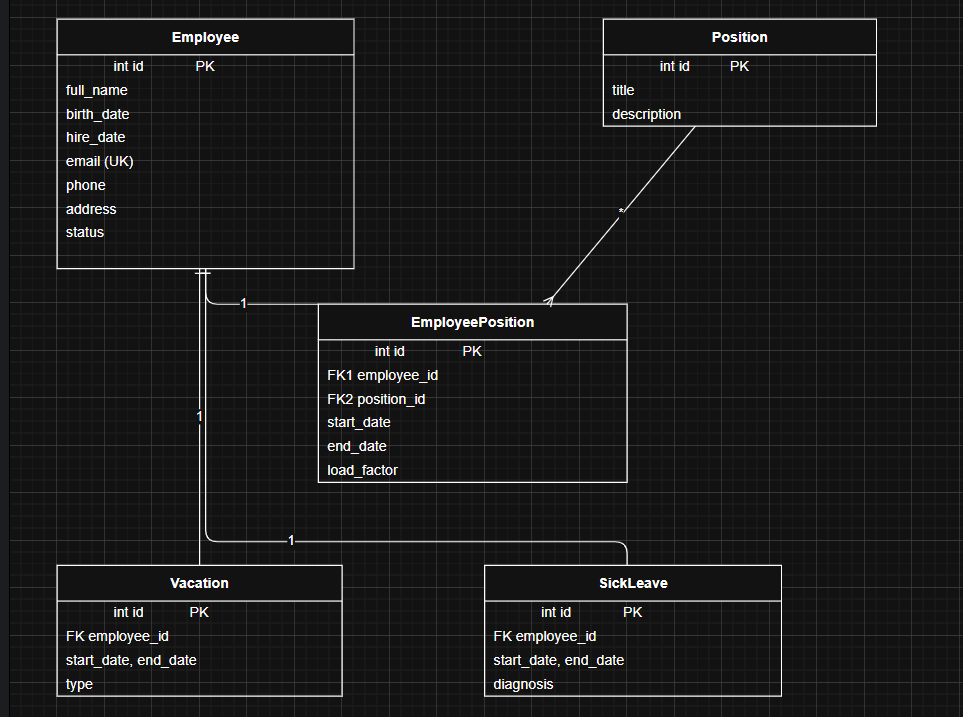
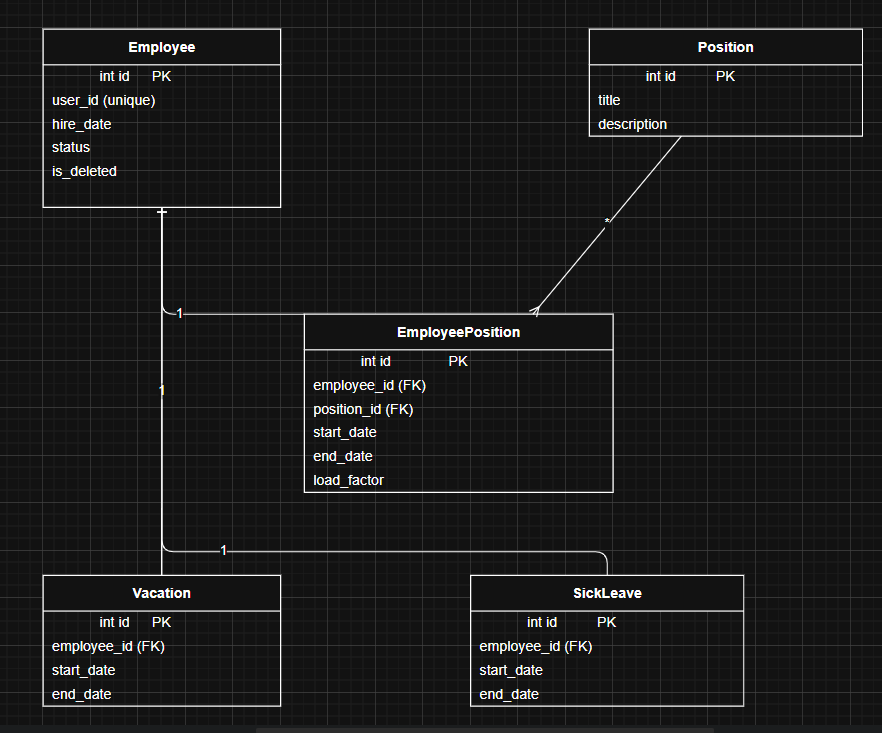
Внёс изменения во все файлы

diff --git a/S10/models.py b/S10/models.py
@@ -3,19 +3,16 @@ from peewee import *
 
 db = SqliteDatabase('employee_status.db')
 
-
 class BaseModel(Model):
     class Meta:
         database = db
 
 class Employee(BaseModel):
-    full_name = CharField(max_length=255, null=False)
-    birth_date = DateField(null=False)
+    """Минимальная информация о сотруднике – только ссылка на профиль и статус"""
+    user_id = IntegerField(unique=True, null=False)  # ID из Profile Service / Auth
     hire_date = DateField(null=False)
-    email = CharField(unique=True, null=True)
-    phone = CharField(max_length=20, null=True)
-    address = TextField(null=True)
-    status = CharField(max_length=20, default='active') 
+    status = CharField(max_length=20, default='active')  # active, on_vacation, sick_leave, fired
+    is_deleted = BooleanField(default=False)  # мягкое удаление
 
 class Position(BaseModel):
     title = CharField(max_length=100, null=False)
@@ -26,7 +23,7 @@ class EmployeePosition(BaseModel):
     position = ForeignKeyField(Position, backref='employees', on_delete='CASCADE', null=False)
     start_date = DateField(null=False)
     end_date = DateField(null=True)
-    load_factor = FloatField(null=False, constraints=[Check('load_factor > 0 AND load_factor <= 1')])
+    load_factor = FloatField(null=False)  # 1.0 = полная ставка
 
 class Vacation(BaseModel):
     employee = ForeignKeyField(Employee, backref='vacations', on_delete='CASCADE', null=False)
@@ -41,7 +38,6 @@ class SickLeave(BaseModel):
     diagnosis = TextField(null=True)
 
 def initialize_db():
-    """Создаёт таблицы, если они не существуют."""
     db.connect()
     db.create_tables([Employee, Position, EmployeePosition, Vacation, SickLeave], safe=True)
     db.close()

diff --git a/S10/doc.md b/S10/doc.md
@@ -1,11 +1,13 @@
-# Сервис статуса сотрудника (вариант 10)
+# Сервис статуса сотрудника (Employee Status Service) – Вариант 10
 
 ## Список функций
-- `create_employee` – создание сотрудника  
-- `update_employee` – изменение сотрудника по ID  
-- `delete_employee` – удаление (закрытие) сотрудника по ID  
-- `get_employee` – получение сотрудника по ID  
-- `list_employees` – получение списка сотрудников по заданным параметрам  
+- `create_employee` – создание записи о сотруднике (только статусная информация)
+- `update_employee` – изменение статусной информации сотрудника
+- `delete_employee` – мягкое удаление (is_deleted = True)
+- `get_employee` – получение сотрудника по ID
+- `list_employees` – получение списка сотрудников с фильтрацией
+
+> Примечание: ФИО, контакты и другие персональные данные хранятся в **Profile Service**. В данном сервисе используется `user_id` для связи с профилем.
 
 ---
 
@@ -15,60 +17,48 @@
 
 **Информация, требуемая для создания сотрудника**
 
-| Параметр      | Обязательность | Тип     | Ограничение                                  | Значение по умолчанию |
-|---------------|----------------|---------|----------------------------------------------|-----------------------|
-| `full_name`   | Да             | string  | длина ≤ 255                                  | –                     |
-| `birth_date`  | Да             | date    | не может быть в будущем                      | –                     |
-| `hire_date`   | Да             | date    | не может раньше 1900 года                    | –                     |
-| `email`       | Нет            | string  | уникальный, формат email                     | `NULL`                |
-| `phone`       | Нет            | string  | формат +7XXXXXXXXXX                          | `NULL`                |
-| `address`     | Нет            | string  | –                                            | `NULL`                |
-| `status`      | Нет            | string  | active / on_vacation / sick_leave / fired    | `'active'`            |
+| Параметр | Пояснение | Обязательность | Тип | Ограничение | Значение по умолчанию |
+|----------|-----------|----------------|-----|-------------|-----------------------|
+| `user_id` | ID сотрудника из Profile Service | Да | int | уникальный | – |
+| `hire_date` | Дата найма | Да | date | не раньше 1900-01-01 | – |
+| `status` | Текущий статус | Нет | string | active / on_vacation / sick_leave / fired | `'active'` |
 
-**Уникальные комбинации параметров:**  
-- `email` (глобальная уникальность)  
-- `(full_name, birth_date)` – уникальный идентификатор личности
+**Уникальные комбинации:** `user_id` (глобально уникален)
 
 **Информация, возвращаемая при успешном создании**
 
-| Параметр      | Тип     |
-|---------------|---------|
-| `id`          | int     |
-| `full_name`   | string  |
-| `hire_date`   | date    |
-| `status`      | string  |
+| Параметр | Тип |
+|----------|-----|
+| `id` | int |
+| `user_id` | int |
+| `hire_date` | date |
+| `status` | string |
 
 ---
 
 ### 2. Изменение сотрудника по ID
 
-**Информация, требуемая для изменения сотрудника** (все поля опциональны)
+**Информация, требуемая для изменения** (все поля опциональны)
 
-| Параметр      | Обязательность | Тип     | Ограничение                                  | Значение по умолчанию |
-|---------------|----------------|---------|----------------------------------------------|-----------------------|
-| `full_name`   | Нет            | string  | длина ≤ 255                                  | –                     |
-| `birth_date`  | Нет            | date    | не может быть в будущем                      | –                     |
-| `hire_date`   | Нет            | date    | не может раньше 1900 года                    | –                     |
-| `email`       | Нет            | string  | уникальный, формат email                     | –                     |
-| `phone`       | Нет            | string  | формат +7XXXXXXXXXX                          | –                     |
-| `address`     | Нет            | string  | –                                            | –                     |
-| `status`      | Нет            | string  | active / on_vacation / sick_leave / fired    | –                     |
+| Параметр | Пояснение | Обязательность | Тип | Ограничение | Значение по умолчанию |
+|----------|-----------|----------------|-----|-------------|-----------------------|
+| `hire_date` | Дата найма | Нет | date | не раньше 1900-01-01 | – |
+| `status` | Статус | Нет | string | active / on_vacation / sick_leave / fired | – |
 
 **Информация, возвращаемая при успешном изменении**
 
-| Параметр      | Тип      |
-|---------------|----------|
-| `id`          | int      |
-| `full_name`   | string   |
-| `status`      | string   |
-| `updated_at`  | datetime |
+| Параметр | Тип |
+|----------|-----|
+| `id` | int |
+| `user_id` | int |
+| `status` | string |
+| `updated_at` | datetime |
 
 ---
 
 ### 3. Удаление сотрудника по ID
 
-> Вернёт `True`, если сотрудник был закрыт (удалён), иначе `False`.  
-> *Примечание:* «Удаление» понимается как мягкое удаление – установка статуса `fired`. Физического удаления из БД не происходит.
+> Вернёт `True`, если сотрудник был помечен как удалённый (`is_deleted = True`), иначе `False`. Физического удаления из БД не происходит.
 
 ---
 
@@ -76,17 +66,13 @@
 
 **Информация, возвращаемая при успешном поиске**
 
-| Параметр      | Тип               |
-|---------------|-------------------|
-| `id`          | int               |
-| `full_name`   | string            |
-| `birth_date`  | date              |
-| `hire_date`   | date              |
-| `email`       | string (или null) |
-| `phone`       | string (или null) |
-| `address`     | string (или null) |
-| `status`      | string            |
-| `positions`   | list (должности)  |
+| Параметр | Пояснение | Тип |
+|----------|-----------|-----|
+| `id` | Внутренний ID записи | int |
+| `user_id` | ID из Profile Service | int |
+| `hire_date` | Дата найма | date |
+| `status` | Текущий статус | string |
+| `positions` | Список должностей с периодами и ставками | list |
 
 ---
 
@@ -94,71 +80,29 @@
 
 **Параметры для получения списка**
 
-| Параметр        | Тип     | Описание                                      |
-|-----------------|---------|-----------------------------------------------|
-| `full_name`     | string  | поиск по частичному совпадению (подстрока)    |
-| `status`        | string  | точное совпадение статуса                     |
-| `position_id`   | int     | ID должности (фильтр по транзитивной таблице) |
-| `hire_date_from`| date    | дата найма не ранее                           |
-| `hire_date_to`  | date    | дата найма не позднее                         |
-| `limit`         | int     | максимальное количество записей (default 100) |
-| `offset`        | int     | смещение для пагинации                        |
+| Параметр | Пояснение | Тип | Описание |
+|----------|-----------|-----|-----------|
+| `user_id` | ID сотрудника | int | точное совпадение |
+| `status` | Статус | string | exact match |
+| `position_id` | Должность | int | через транзитивную таблицу |
+| `hire_date_from` | Дата найма от | date | |
+| `hire_date_to` | Дата найма до | date | |
+| `limit` | Лимит | int | максимум записей (default 100) |
+| `offset` | Смещение | int | для пагинации |
 
-**Информация, возвращаемая в виде списка сотрудников**  
-(каждый элемент списка)
+**Информация, возвращаемая в виде списка сотрудников** (каждый элемент)
 
-| Параметр    | Тип     |
-|-------------|---------|
-| `id`        | int     |
-| `full_name` | string  |
-| `hire_date` | date    |
-| `status`    | string  |
+| Параметр | Тип |
+|----------|-----|
+| `id` | int |
+| `user_id` | int |
+| `hire_date` | date |
+| `status` | string |
 
 ---
 
-## ER-диаграмма (3НФ, с транзитивной таблицей)
+## ER-диаграмма (3НФ, связь многие-ко-многим через EmployeePosition)
 
-```mermaid
-erDiagram
-    Employee {
-        int id PK
-        string full_name
-        date birth_date
-        date hire_date
-        string email UK
-        string phone
-        string address
-        string status
-    }
-    Position {
-        int id PK
-        string title
-        string description
-    }
-    EmployeePosition {
-        int id PK
-        int employee_id FK
-        int position_id FK
-        date start_date
-        date end_date
-        float load_factor
-    }
-    Vacation {
-        int id PK
-        int employee_id FK
-        date start_date
-        date end_date
-        string type
-    }
-    SickLeave {
-        int id PK
-        int employee_id FK
-        date start_date
-        date end_date
-        string diagnosis
-    }
+![ERD](erd.png)
 
-    Employee ||--o{ EmployeePosition : has
-    Position ||--o{ EmployeePosition : has
-    Employee ||--o{ Vacation : has
-    Employee ||--o{ SickLeave : has
+*Диаграмма включает таблицы: Employee, Position, EmployeePosition, Vacation, SickLeave. Все внешние ключи NOT NULL.*